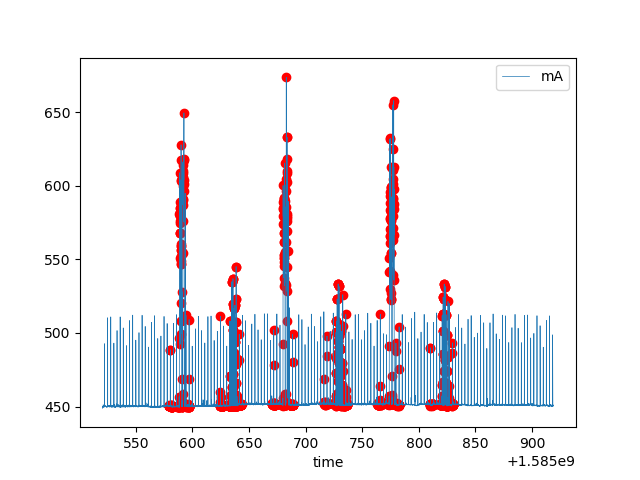
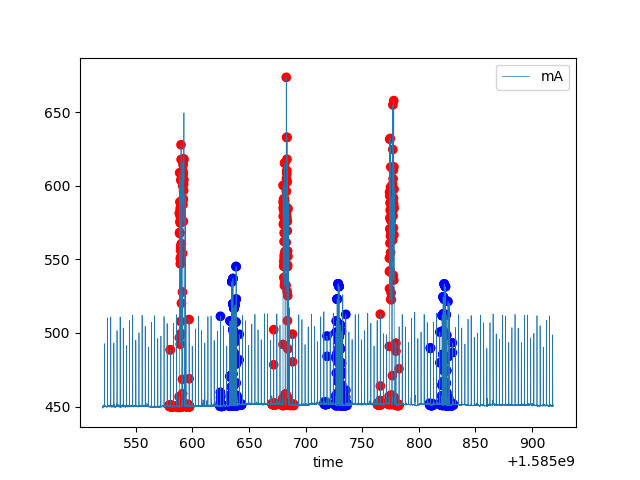
updating aggregator test

diff --git a/energy_comparison/test_under_construction/test.py b/energy_comparison/test_under_construction/test.py
@@ -31,341 +31,61 @@ def readSelemium(fileList):
     #print(selRawData.head())
     return selRawData
 
-def wattComparison(inaData, selRawData):
+def organizeSeleniumData(inaData, selRawData):
+    selVolts = []
+    selCurrents = []
     selWatts = []
     selTimes = []
     taskTypes = []
 
     for taskType, selTime in zip(selRawData.task, selRawData.time):
-        for inaWatt, inaTime in zip(inaData.watts, inaData.time):
+        for inaVolt, inaCurrent, inaWatt, inaTime in zip(inaData.V, inaData.mA, inaData.watts, inaData.time):
             if math.isclose(selTime, inaTime, rel_tol=0.000000001):
-                #print("sel: " + str(selTime))
-                #print("ina: " + str(inaTime))
-                #print(inaWatt)
                 taskTypes.append(taskType)
                 selTimes.append(inaTime)
                 selWatts.append(inaWatt)
-
-    selData = pd.DataFrame({"watts": selWatts, "time": selTimes, "task": taskTypes})
-    #print(selData)
-
-    # graph
-    colors = {'0':'red', '1':'blue'}
-    inaData.plot(x='time', y='watts', linewidth = 0.5)
-    plt.scatter(x=selData.time, y=selData.watts, c=selData.task.str[0].apply(lambda x: colors[x]))
-    #plt.show()
-    plt.savefig('watts.png')
-    
-
-def voltageComparison(inaData, selRawData):
-    selVolts = []
-    selTimes = []
-    for selTime in selRawData.time:
-        for inaVolt, inaTime in zip(inaData.V, inaData.time):
-            if math.isclose(selTime, inaTime, rel_tol=0.000000001):
-                print("sel: " + str(selTime))
-                print("ina: " + str(inaTime))
-                print(inaVolt)
-                selTimes.append(inaTime)
                 selVolts.append(inaVolt)
-
-    selData = pd.DataFrame({"volts": selVolts, "time": selTimes})
-    print(selData.head())
-
-    # graph
-    inaData.plot(x='time', y='V', linewidth = 0.5)
-    plt.scatter(x=selData.time, y=selData.volts, c='red')
-    #plt.show()
-    plt.savefig('volts.png')
-
-def currentComparison(inaData, selRawData):
-    selCurrents = []
-    selTimes = []
-    for selTime in selRawData.time:
-        for inaCurrent, inaTime in zip(inaData.mA, inaData.time):
-            if math.isclose(selTime, inaTime, rel_tol=0.000000001):
-                print("sel: " + str(selTime))
-                print("ina: " + str(inaTime))
-                print(inaCurrent)
-                selTimes.append(inaTime)
                 selCurrents.append(inaCurrent)
 
-    selData = pd.DataFrame({"currents": selCurrents, "time": selTimes})
-    print(selData.head())
+    return pd.DataFrame({"volts": selVolts, "currents": selCurrents, "watts": selWatts, "time": selTimes, "task": taskTypes})
 
-    # graph
-    inaData.plot(x='time', y='mA', linewidth = 0.5)
-    plt.scatter(x=selData.time, y=selData.currents, c='red')
+def drawWattGraph(inaData, selData, colors):
+    inaData.plot(x='time', y='watts', linewidth = 0.5)
+    plt.scatter(x=selData.time, y=selData.watts, c=selData.task.str[0].apply(lambda x: colors[x]))
+    plt.savefig('watts.png')
     #plt.show()
+
+def drawVoltGraph(inaData, selData, colors):
+    inaData.plot(x='time', y='V', linewidth = 0.5)
+    plt.scatter(x=selData.time, y=selData.volts, c=selData.task.str[0].apply(lambda x: colors[x]))
+    plt.savefig('volts.png')
+    #plt.show()
+
+def drawCurrentGraph(inaData, selData, colors):
+    inaData.plot(x='time', y='mA', linewidth = 0.5)
+    plt.scatter(x=selData.time, y=selData.currents, c=selData.task.str[0].apply(lambda x: colors[x]))
     plt.savefig('currents.png')
+    #plt.show()
 
-
-def aggregate(path=""):
-    #testDirPath = path + "/"
-    #fileList = glob.glob(testDirPath + "*.csv")
-    fileList = glob.glob("*.csv")
+def aggregate(path='data'):
+    dirPath = path + "/"
+    fileList = glob.glob(dirPath + "*.csv")
 
     # read ina.csv file add a new column of wattage
     inaData = readCSV(fileList)
     inaData = addWatts(inaData)
 
-    # read selenium csv file
+    # read selenium csv file and organize data
     selRawData = readSelemium(fileList)
+    selData = organizeSeleniumData(inaData, selRawData)
 
-    # save a png comparing watts/volts/currents between large and small images
-    # depends on timeframe of ina and selenium data
-    wattComparison(inaData, selRawData)
-    #voltageComparison(inaData, selRawData)
-    #currentComparison(inaData, selRawData)
+    # graph
+    colors = {'0':'red', '1':'blue'} # TODO: automate
 
+    drawWattGraph(inaData, selData, colors)
+    drawVoltGraph(inaData, selData, colors)
+    drawCurrentGraph(inaData, selData, colors)
 
-    """
-    # In[10]:
-    #averages per second
-    inaLength = inaData.shape[0]
-    inaStartTime = inaData.time[0]
-    inaEndTime = inaData.time[inaData.shape[0]-1]
-    inaTimePeriod = inaEndTime - inaStartTime
-    dataPerSecond =inaLength/inaTimePeriod
-
-
-
-
-    # In[11]:
-    averagedINA = pd.DataFrame(columns=['mA','V','watts','time'])
-
-    for av in list(range(int(inaTimePeriod))):
-        avmA= inaData.loc[(15*av):((15*av)+14)]['mA'].sum()/15
-        avV = inaData.loc[(15*av):((15*av)+14)]['V'].sum()/15
-        avWatts = inaData.loc[(15*av):((15*av)+14)]['watts'].sum()/15
-        avTime = inaData.loc[(15*av):(15*av)]['time'][inaData.loc[(15*av):(15*av)]['time'].index[0]]
-        averagedINA = averagedINA.append({'mA' : avmA , 'V' : avV, 'watts': avWatts,'time': avTime},ignore_index=True)
-
-        
-
-
-    # In[12]:
-    print(averagedINA.shape)
-    print(averagedINA.tail())
-
-
-    # In[13]:
-    seleniumData = pd.read_csv(selFileName[0]).fillna(0)
-
-
-    # In[14]:
-    print(seleniumData.shape)
-    seleniumData.tail()
-
-
-    # In[15]:
-    seleniumData.task.loc[0]
-
-
-    # In[16]:
-    # get start and stop times
-    testTimes = []
-
-    currentRound = 0
-    for getT in list(range(seleniumData.shape[0])):
-        
-        if 'start' in seleniumData.task.loc[getT]:
-            roundTimes = [seleniumData.time.loc[getT]]
-        elif 'stop' in seleniumData.task.loc[getT]:
-            roundTimes.append(seleniumData.time.loc[getT])
-            testTimes.append(roundTimes)
-
-    # In[17]:
-    #make new data frames with power data from only test durations
-    dataFrameSplits = []
-
-    #print(averagedINA)
-    for splitTests in list(range(len(testTimes))):
-        dataFrameSplits.append(averagedINA.loc[(averagedINA.loc[:,'time']>=(testTimes[splitTests][0])) & (averagedINA.loc[:,'time']<=testTimes[splitTests][1])])
-        #print(dataFrameSplits[splitTests])
-        #print(averagedINA.loc[(averagedINA.loc[:,'time']>=(testTimes[splitTests][0])) & (averagedINA.loc[:,'time']<=testTimes[splitTests][1])])
-    print(len(dataFrameSplits))
-
-
-
-    # In[18]:
-    #get the max and mins for each test set
-    for mX in list(range(len(dataFrameSplits))):
-        print('------'+str(mX)+'------')
-        print ('Max:')
-        print (np.max(dataFrameSplits[mX].watts))
-        print ('Min:')
-        print (np.min(dataFrameSplits[mX].watts))
-                
-
-
-    # In[19]:
-    #obviously this isn't automated...
-    #large average peak
-    lPeakAVG =(2.6139504000000002 + 2.596789200000001 + 2.5888593333333336 + 2.6099552000000004) * 0.25
-
-    #small overall peak
-    sPeakAVG =(2.294001466666667+2.293759333333334+2.2986020000000003+2.2974821333333337)* 0.25
-
-    print("Large Peak AVG: " + str(lPeakAVG))
-    print("Small Peak AVG: " + str(sPeakAVG))
-
-    #peak differences
-    print("AVG Peak Difference: " + str(lPeakAVG-sPeakAVG))
-
-
-    # In[20]:
-    #graph ina219 all data
-    plt.scatter(x=inaData.loc[:,'time'], y=inaData.loc[:,'watts'], color='b')
-
-
-    # In[21]:
-    # graph all selenium data
-    plt.scatter(x=seleniumData.loc[:,'time'], y=seleniumData.loc[:,'task'], color='b')
-
-
-    # In[22]:
-    fig, ax = plt.subplots(dpi=300)
-
-    x = averagedINA.loc[:,'time']
-    y = averagedINA.loc[:,'V']
-    ax.plot(x,y)
-
-    ax.set(xlabel='seconds', ylabel='volts',
-           title='Server Activity')
-
-    colors = ['r','y','b','g']
-    for plotNum in list(range(len(dataFrameSplits))):
-        ax.scatter(x=dataFrameSplits[plotNum].loc[:,'time'], y=dataFrameSplits[plotNum].loc[:,'V'], color=colors[plotNum%2])
-
-    redLabel = mpatches.Patch(color='red', label='large')
-    blueLabel = mpatches.Patch(color='blue', label='small')
-    yellowLabel = mpatches.Patch(color='yellow', label='small')
-    greenLabel = mpatches.Patch(color='green', label='small image')
-
-
-    plt.legend(handles=[redLabel, yellowLabel])
-
-    #ax.grid()
-    pngName1 = testDirectoryPath +"voltage_"+str(datetime.date.today())+"-"+str(int(time.time()))+".png"
-    print(pngName1)
-    fig.savefig(pngName1)
-    plt.show()
-
-
-    # In[23]:
-    fig, ax = plt.subplots(dpi=300)
-
-    x = averagedINA.loc[:,'time']
-    y = averagedINA.loc[:,'mA']
-    ax.plot(x,y)
-
-    ax.set(xlabel='seconds', ylabel='mA',
-           title='Server Activity')
-
-    colors = ['r','y','b','g']
-    for plotNum in list(range(len(dataFrameSplits))):
-        ax.scatter(x=dataFrameSplits[plotNum].loc[:,'time'], y=dataFrameSplits[plotNum].loc[:,'mA'], color=colors[plotNum%2])
-
-    redLabel = mpatches.Patch(color='red', label='large')
-    blueLabel = mpatches.Patch(color='blue', label='large image')
-    yellowLabel = mpatches.Patch(color='yellow', label='small')
-    greenLabel = mpatches.Patch(color='green', label='small image')
-
-    plt.legend(handles=[redLabel, yellowLabel])
-
-    #ax.grid()
-    pngName1 = testDirectoryPath +"current_"+str(datetime.date.today())+"-"+str(int(time.time()))+".png"
-    print(pngName1)
-    fig.savefig(pngName1)
-    plt.show()
-
-
-    # In[24]:
-    fig, ax = plt.subplots(dpi=300)
-
-    x = averagedINA.loc[:,'time']
-    y = averagedINA.loc[:,'watts']
-    ax.plot(x,y)
-
-    ax.set(xlabel='seconds', ylabel='watts',
-           title='Server Activity')
-
-    colors = ['r','y','b','g']
-    for plotNum in list(range(len(dataFrameSplits))):
-        ax.scatter(x=dataFrameSplits[plotNum].loc[:,'time'], y=dataFrameSplits[plotNum].loc[:,'watts'], color=colors[plotNum%2])
-
-    redLabel = mpatches.Patch(color='red', label='large')
-    blueLabel = mpatches.Patch(color='blue', label='large image')
-    yellowLabel = mpatches.Patch(color='yellow', label='small')
-    greenLabel = mpatches.Patch(color='green', label='small image')
-
-    plt.legend(handles=[redLabel, yellowLabel])
-
-    #ax.grid()
-    pngName1 = testDirectoryPath +"watts_"+str(datetime.date.today())+"-"+str(int(time.time()))+".png"
-    print(pngName1)
-    fig.savefig(pngName1)
-    plt.show()
-
-
-    # In[25]:
-    overlayData = dataFrameSplits
-    overlayData[2]
-
-
-    # In[26]:
-    list(range(len(dataFrameSplits)))
-
-
-    # In[27]:
-    overlayData[0]
-
-
-    # In[28]:
-    for overlays in list(range(len(dataFrameSplits))):
-        overlayData[overlays].insert(4, 'scaled', overlayData[overlays].time - overlayData[overlays].time[overlayData[overlays].time.index[0]], True)
-
-    #overlayData
-
-
-    # In[29]:
-    fig, ax = plt.subplots(dpi=300)
-    '''
-    x = overlayD1.loc[:,'scaled']
-    y = overlayD1.loc[:,'watts']
-    ax.plot(x,y, color='r')
-
-    ax.set(xlabel='time', ylabel='watts',
-           title='Overlayed Server Activity')
-
-    '''
-
-    colors = ['r','y','b','g']
-    for plotNum in list(range(len(overlayData))):
-        ax.plot(overlayData[plotNum].loc[:,'scaled'], overlayData[plotNum].loc[:,'watts'], color=colors[plotNum%2])
-
-    ax.set(xlabel='seconds', ylabel='watts',
-           title='Overlayed Server Activity')
-
-    redLabel = mpatches.Patch(color='red', label='large')
-    blueLabel = mpatches.Patch(color='blue', label='large image')
-    yellowLabel = mpatches.Patch(color='yellow', label='small')
-    greenLabel = mpatches.Patch(color='green', label='small image')
-
-    plt.legend(handles=[redLabel, yellowLabel])
-
-    #ax.grid()
-    pngName2 = testDirectoryPath +"aggregator_overlay-"+str(datetime.date.today())+"-"+str(int(time.time()))+".png"
-    print(pngName2)
-    fig.savefig(pngName2)
-    plt.show()
-    """
 
 if __name__ == "__main__":
-    if (len(sys.argv) > 1):
-        aggregate(str(sys.argv[1]))
-    else:
-        #print("Error: no folder name given.")
-        #sys.exit()
-        aggregate()
+    aggregate()
